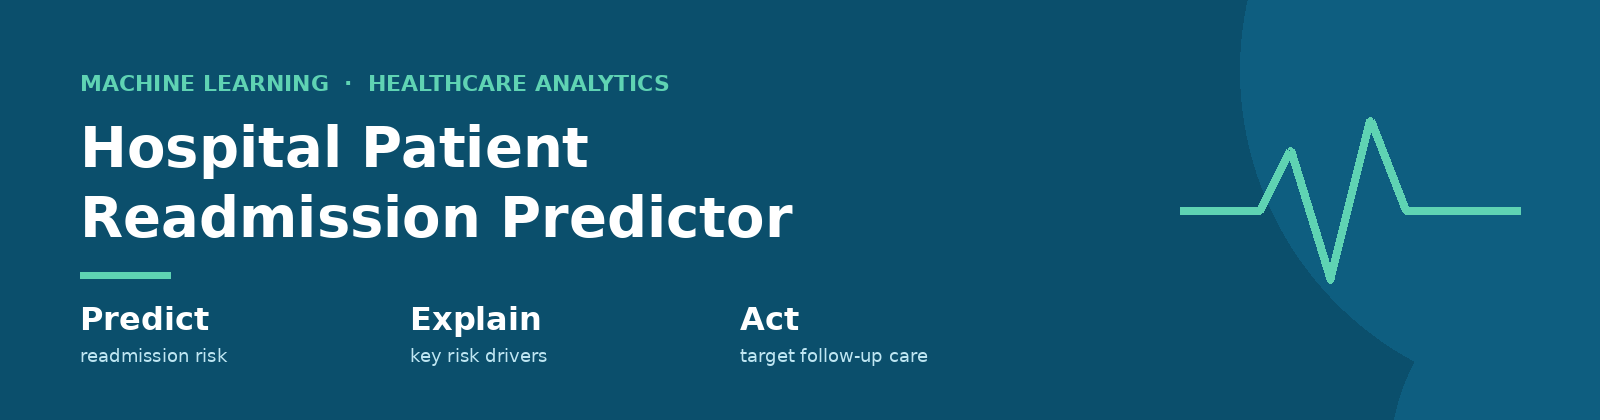
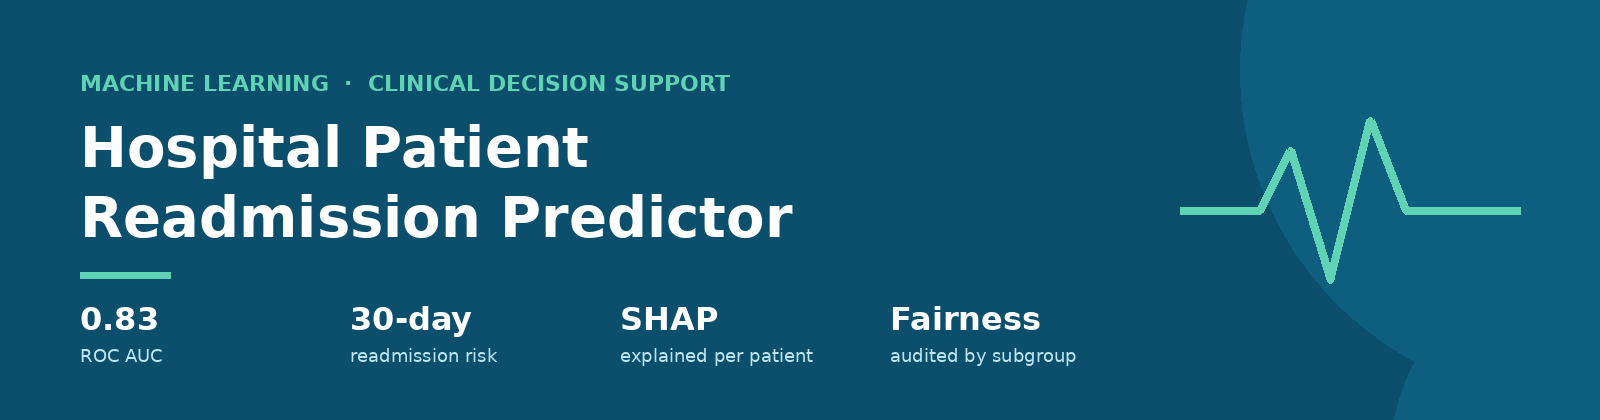
Add files via upload

diff --git a/README.md b/README.md
@@ -4,96 +4,167 @@
 
 <p align="center">
   <img alt="Python" src="https://img.shields.io/badge/Python-3.x-0B4F6C?logo=python&logoColor=white">
-  <img alt="scikit-learn" src="https://img.shields.io/badge/scikit--learn-ML-F7931E?logo=scikitlearn&logoColor=white">
-  <img alt="Domain" src="https://img.shields.io/badge/domain-healthcare%20analytics-5FD3B3">
-  <img alt="Task" src="https://img.shields.io/badge/task-binary%20classification-64748B">
+  <img alt="LightGBM" src="https://img.shields.io/badge/LightGBM-classifier-2E7D32">
+  <img alt="MLflow" src="https://img.shields.io/badge/MLflow-tracking-0194E2?logo=mlflow&logoColor=white">
+  <img alt="SHAP" src="https://img.shields.io/badge/SHAP-explainable%20AI-F57C00">
+  <img alt="Streamlit" src="https://img.shields.io/badge/Streamlit-dashboard-FF4B4B?logo=streamlit&logoColor=white">
+  <img alt="SQL" src="https://img.shields.io/badge/SQLite-clinical%20queries-003B57?logo=sqlite&logoColor=white">
+  <img alt="ROC AUC" src="https://img.shields.io/badge/ROC%20AUC-0.83-5FD3B3">
 </p>
 
 # 🏥 Hospital Patient Readmission Predictor
 
-A machine-learning model that estimates the risk that a patient will be **readmitted to hospital after discharge**, so care teams can prioritise follow-up for the patients who need it most.
+An end-to-end **clinical decision-support system** that predicts, *at the moment of discharge*, whether a patient is likely to be readmitted within **30 days** — and explains **why**, so care teams can target home check-ins and medication counselling where they matter most.
 
-📄 **Full write-up:** [Project Explanation](./Project_Explanation.md)
+📄 **Deep-dive guide:** [Project Explanation](./Project%20Explanation%3A%20Hospital%20Patient%20Readmission%20Predictor.md) — a beginner-friendly walkthrough of the clinical context, every feature choice and every code block.
 
 ---
 
-## 🎯 Why this matters
+## 📌 Why it matters
 
-Unplanned readmissions are costly for hospitals and often signal gaps in discharge planning or follow-up care. Flagging high-risk patients **before** they leave lets clinicians intervene early — a follow-up call, a medication review, or a scheduled outpatient visit.
+| | |
+|---|---|
+| 🩺 **Clinical** | High readmission rates signal early discharge, unresolved complications or weak post-discharge support. |
+| 💰 **Financial** | In India, each avoided readmission saves roughly **₹1.5–3 lakh** in operational costs and insurance claims. |
+| 🛏 **Capacity** | Fewer readmissions free beds for other acute patients. |
 
-## 📊 Dataset
+## ✨ Highlights
+
+- **Multi-table EHR pipeline** — demographics, admissions and lab results joined in SQL and pandas
+- **Clinically-informed features** — lab cutoffs (e.g. creatinine > 1.5, haemoglobin < 10), patient history, interaction terms
+- **Imbalance-aware LightGBM** — `class_weight='balanced'` penalises missed readmissions ~4.5× more
+- **Experiment tracking** with MLflow across three hyperparameter configurations, with early stopping
+- **Fairness audit** — AUC and false-positive rate compared across gender, insurance tier and age cohort
+- **Explainable AI** — SHAP shows which factors raised or lowered each patient's risk
+- **Clinic-facing Streamlit dashboard** — enter patient details, get a risk score and its explanation
+
+## 🏗 Architecture
+
+```mermaid
+graph TD
+    subgraph Data Layer
+        A[Demographics Table] -->|patient_id JOIN| D(Merged EHR Data)
+        B[Admissions Table] -->|admission_id JOIN| D
+        C[Lab Results Table] -->|admission_id JOIN| D
+    end
+    subgraph Feature Engineering
+        D --> E[Clinical Threshold Flags]
+        D --> F[Time-Based Features]
+        D --> G[Patient History Aggregations]
+        D --> H[Risk Interaction Features]
+        E & F & G & H --> I[Encoded & Imputed Feature Matrix]
+    end
+    subgraph ML & Evaluation
+        I --> J[Stratified Train / Test Split]
+        J --> K[LightGBM Classifier]
+        K --> L[MLflow Experiment Tracking]
+        K --> M[Fairness & Bias Analysis]
+    end
+    subgraph Clinical Interface
+        K --> N[SHAP Explainable AI]
+        N --> O[Streamlit Dashboard]
+    end
+    style D fill:#e1f5fe,stroke:#0288d1,stroke-width:2px
+    style I fill:#e8f5e9,stroke:#2e7d32,stroke-width:2px
+    style K fill:#fff3e0,stroke:#f57c00,stroke-width:2px
+    style O fill:#fce4ec,stroke:#c2185b,stroke-width:2px
+```
+
+## 📊 Data
+
+Synthetic but deliberately *messy* EHR data, generated to mirror real hospital records.
 
 | Item | Detail |
 |---|---|
-| Source | `<!-- e.g. UCI Diabetes 130-US Hospitals dataset -->` |
-| Records | `<!-- number of patient encounters -->` |
-| Target | `readmitted` — `<!-- e.g. within 30 days (yes / no) -->` |
-| Key features | `<!-- e.g. age, time in hospital, lab procedures, medications, prior inpatient visits, diagnoses -->` |
+| Records | **8,000 admissions** across demographics, admissions and lab tables |
+| Locale | Indian demographics via `Faker('en_IN')` |
+| Target | `readmitted_30_days` — 1 if readmitted within 30 days |
+| Class balance | **18% readmitted / 82% not** |
+| Realism | Log-normal length of stay (1–45 days), Poisson procedure counts, **~8% missing lab values**, Gaussian noise in the outcome |
+| Reproducibility | `np.random.seed(42)` |
 
-## 🔄 Approach
+## 🔬 Features
 
-```mermaid
-flowchart LR
-    A[Raw patient data] --> B[Cleaning &<br/>missing values]
-    B --> C[Feature engineering<br/>& encoding]
-    C --> D[Train / test split]
-    D --> E[Model training]
-    E --> F[Evaluation]
-    F --> G[Risk prediction]
-```
+**Included**
 
-1. **Data cleaning** — handle missing values, remove duplicates and invalid records.
-2. **Feature engineering** — encode categorical variables, group diagnosis codes, derive visit-history features.
-3. **Class imbalance** — `<!-- e.g. SMOTE / class weights / none -->`
-4. **Modelling** — `<!-- e.g. Logistic Regression, Random Forest, XGBoost -->`
-5. **Evaluation** — compared on held-out data, prioritising **recall** so that fewer at-risk patients are missed.
+| Feature | Rationale |
+|---|---|
+| `age` | Older patients recover more slowly and face more complications |
+| `chronic_conditions` | Multi-morbidity drives rapid decompensation |
+| `length_of_stay_days` | Proxy for initial illness severity |
+| `admission_type` (emergency) | Unplanned admissions carry higher risk than elective ones |
+| `discharge_disposition` | Discharge to rehab or nursing care signals incomplete recovery |
+| `num_medications_discharge` | Polypharmacy raises side-effect and compliance risk |
+| Abnormal lab flags | Clinical cutoffs, e.g. `abnormal_wbc` = WBC < 4 **or** > 11 |
+| `total_abnormal_labs` | Overall physiological instability |
+| `prior_admissions` | "Revolving-door" patients are likely to return |
+| `age_x_chronic` | Compounding risk of elderly, multi-morbid patients |
+| `admission_month`, `is_weekend_admission` | Seasonal peaks; reduced weekend staffing |
 
-## 📈 Results
+**Deliberately excluded**
 
-| Model | Accuracy | Precision | Recall | F1 | ROC-AUC |
-|---|---|---|---|---|---|
-| `<!-- model 1 -->` | – | – | – | – | – |
-| `<!-- model 2 -->` | – | – | – | – | – |
-| **`<!-- best model -->`** | – | – | – | – | – |
+- `patient_id`, `admission_id` — database keys; would let the model memorise patients
+- Raw `admission_date` — replaced by month and weekend features
+- `blood_group` — no relationship to readmission; adds noise
+- Raw lab values — replaced by clinical-threshold flags, because risk is non-linear (both high and low WBC are dangerous)
 
-**Top risk drivers:** `<!-- e.g. number of prior inpatient visits, time in hospital, number of medications -->`
+## 📈 Evaluation — why not accuracy?
+
+A model that predicts *"no one returns"* scores **82% accuracy** while catching **0%** of at-risk patients. So this project evaluates on:
+
+| Metric | What it tells us |
+|---|---|
+| **ROC AUC = 0.83** | Pick one readmitted and one non-readmitted patient at random: 83% of the time, the model ranks the readmitted one higher. Lets a hospital direct resources to its top 10–15% highest-risk patients. |
+| **Recall** | Share of actual readmissions caught — **prioritised**, because missing an at-risk patient costs more than an extra follow-up call |
+| **Precision** | Share of flagged patients who actually return — keeps false alarms in check |
+
+Validation uses a **stratified 80/20 split** that preserves the 18% readmission rate in both sets, and **early stopping after 50 rounds** without improvement.
+
+## ⚖ Fairness & explainability
+
+- **Subgroup audit** — AUC and false-positive rate computed separately by gender, insurance tier and age cohort. A gap means one group is ranked less reliably or flagged falsely more often, which would skew who receives care.
+- **SHAP** — for a patient at 45% risk against an 18% baseline, SHAP shows what moved it, e.g. age 78 **+15%**, abnormal kidney lab **+20%**, elective admission **−8%**, shown as waterfall or force plots.
 
 ## 🛠 Tech stack
 
-`Python` · `pandas` · `NumPy` · `scikit-learn` · `Matplotlib / Seaborn` · `<!-- add: XGBoost / Streamlit / Jupyter -->`
+`Python` · `pandas` · `NumPy` · `Faker` · `SQLite` · `scikit-learn` · `LightGBM` · `MLflow` · `SHAP` · `Streamlit` · `joblib`
 
-## 🚀 How to run
+## 🚀 Getting started
 
 ```bash
 git clone https://github.com/Sabyasachi-Sahu/Hospital-Patient-Readmission-Predictor.git
 cd Hospital-Patient-Readmission-Predictor
-pip install -r requirements.txt
-# then run the notebook or script, e.g.
-# jupyter notebook
+pip install pandas numpy faker scikit-learn lightgbm mlflow shap streamlit joblib
+
+# run the pipeline (data generation → SQL → features → training), then:
+mlflow ui                  # compare experiment runs at http://localhost:5000
+streamlit run <app>.py     # launch the clinical dashboard
 ```
 
-## 📁 Repository structure
+> Replace `<app>.py` with your Streamlit file name. The pipeline writes `data/hospital.db` and `models/readmission_lgbm.pkl`.
 
-```
-.
-├── README.md
-├── Project Explanation: Hospital Patient Readmission Predictor.md
-└── assets/
-    └── banner.png
-```
+## 🔄 Pipeline at a glance
+
+| Step | What happens |
+|---|---|
+| 1. Synthetic EHR generation | Three linked tables with realistic distributions, missing labs and noisy outcomes |
+| 2. SQL clinical queries | Tables loaded into SQLite; emergency-admission analysis by district, insurance and department |
+| 3. Feature engineering | Date features, clinical flags, patient-history aggregation, label encoding |
+| 4. LightGBM + MLflow | Median imputation, stratified split, three tuned runs, balanced class weights, early stopping |
+| 5. Fairness analysis | Per-subgroup AUC and false-positive rate |
+| 6. SHAP + Streamlit | Saved model loaded, explained per patient, served through an interactive form |
 
 ## ⚠ Limitations
 
-- Trained on historical data; performance on a specific hospital's population needs local validation.
-- A risk score supports clinical judgement — it does not replace it.
+- Trained on **synthetic** data — real deployment needs validation on actual hospital records.
+- A risk score supports clinical judgement; it does not replace it.
 
 ## 🔮 Future work
 
-- Add model explainability (e.g. SHAP) for patient-level reasons behind each score
-- Deploy as an interactive app for care teams
-- Validate on more recent and more diverse patient data
+- Validate on real, de-identified EHR data
+- Calibrate probabilities and tune the alert threshold with clinicians
+- Containerise and deploy the dashboard; monitor drift and fairness over time
 
 ## 👤 Author
 
-**Sabyasachi Sahu** — Senior Data Scientist
-[GitHub](https://github.com/Sabyasachi-Sahu)
+**Sabyasachi Sahu** — Senior Data Scientist · [GitHub](https://github.com/Sabyasachi-Sahu)
